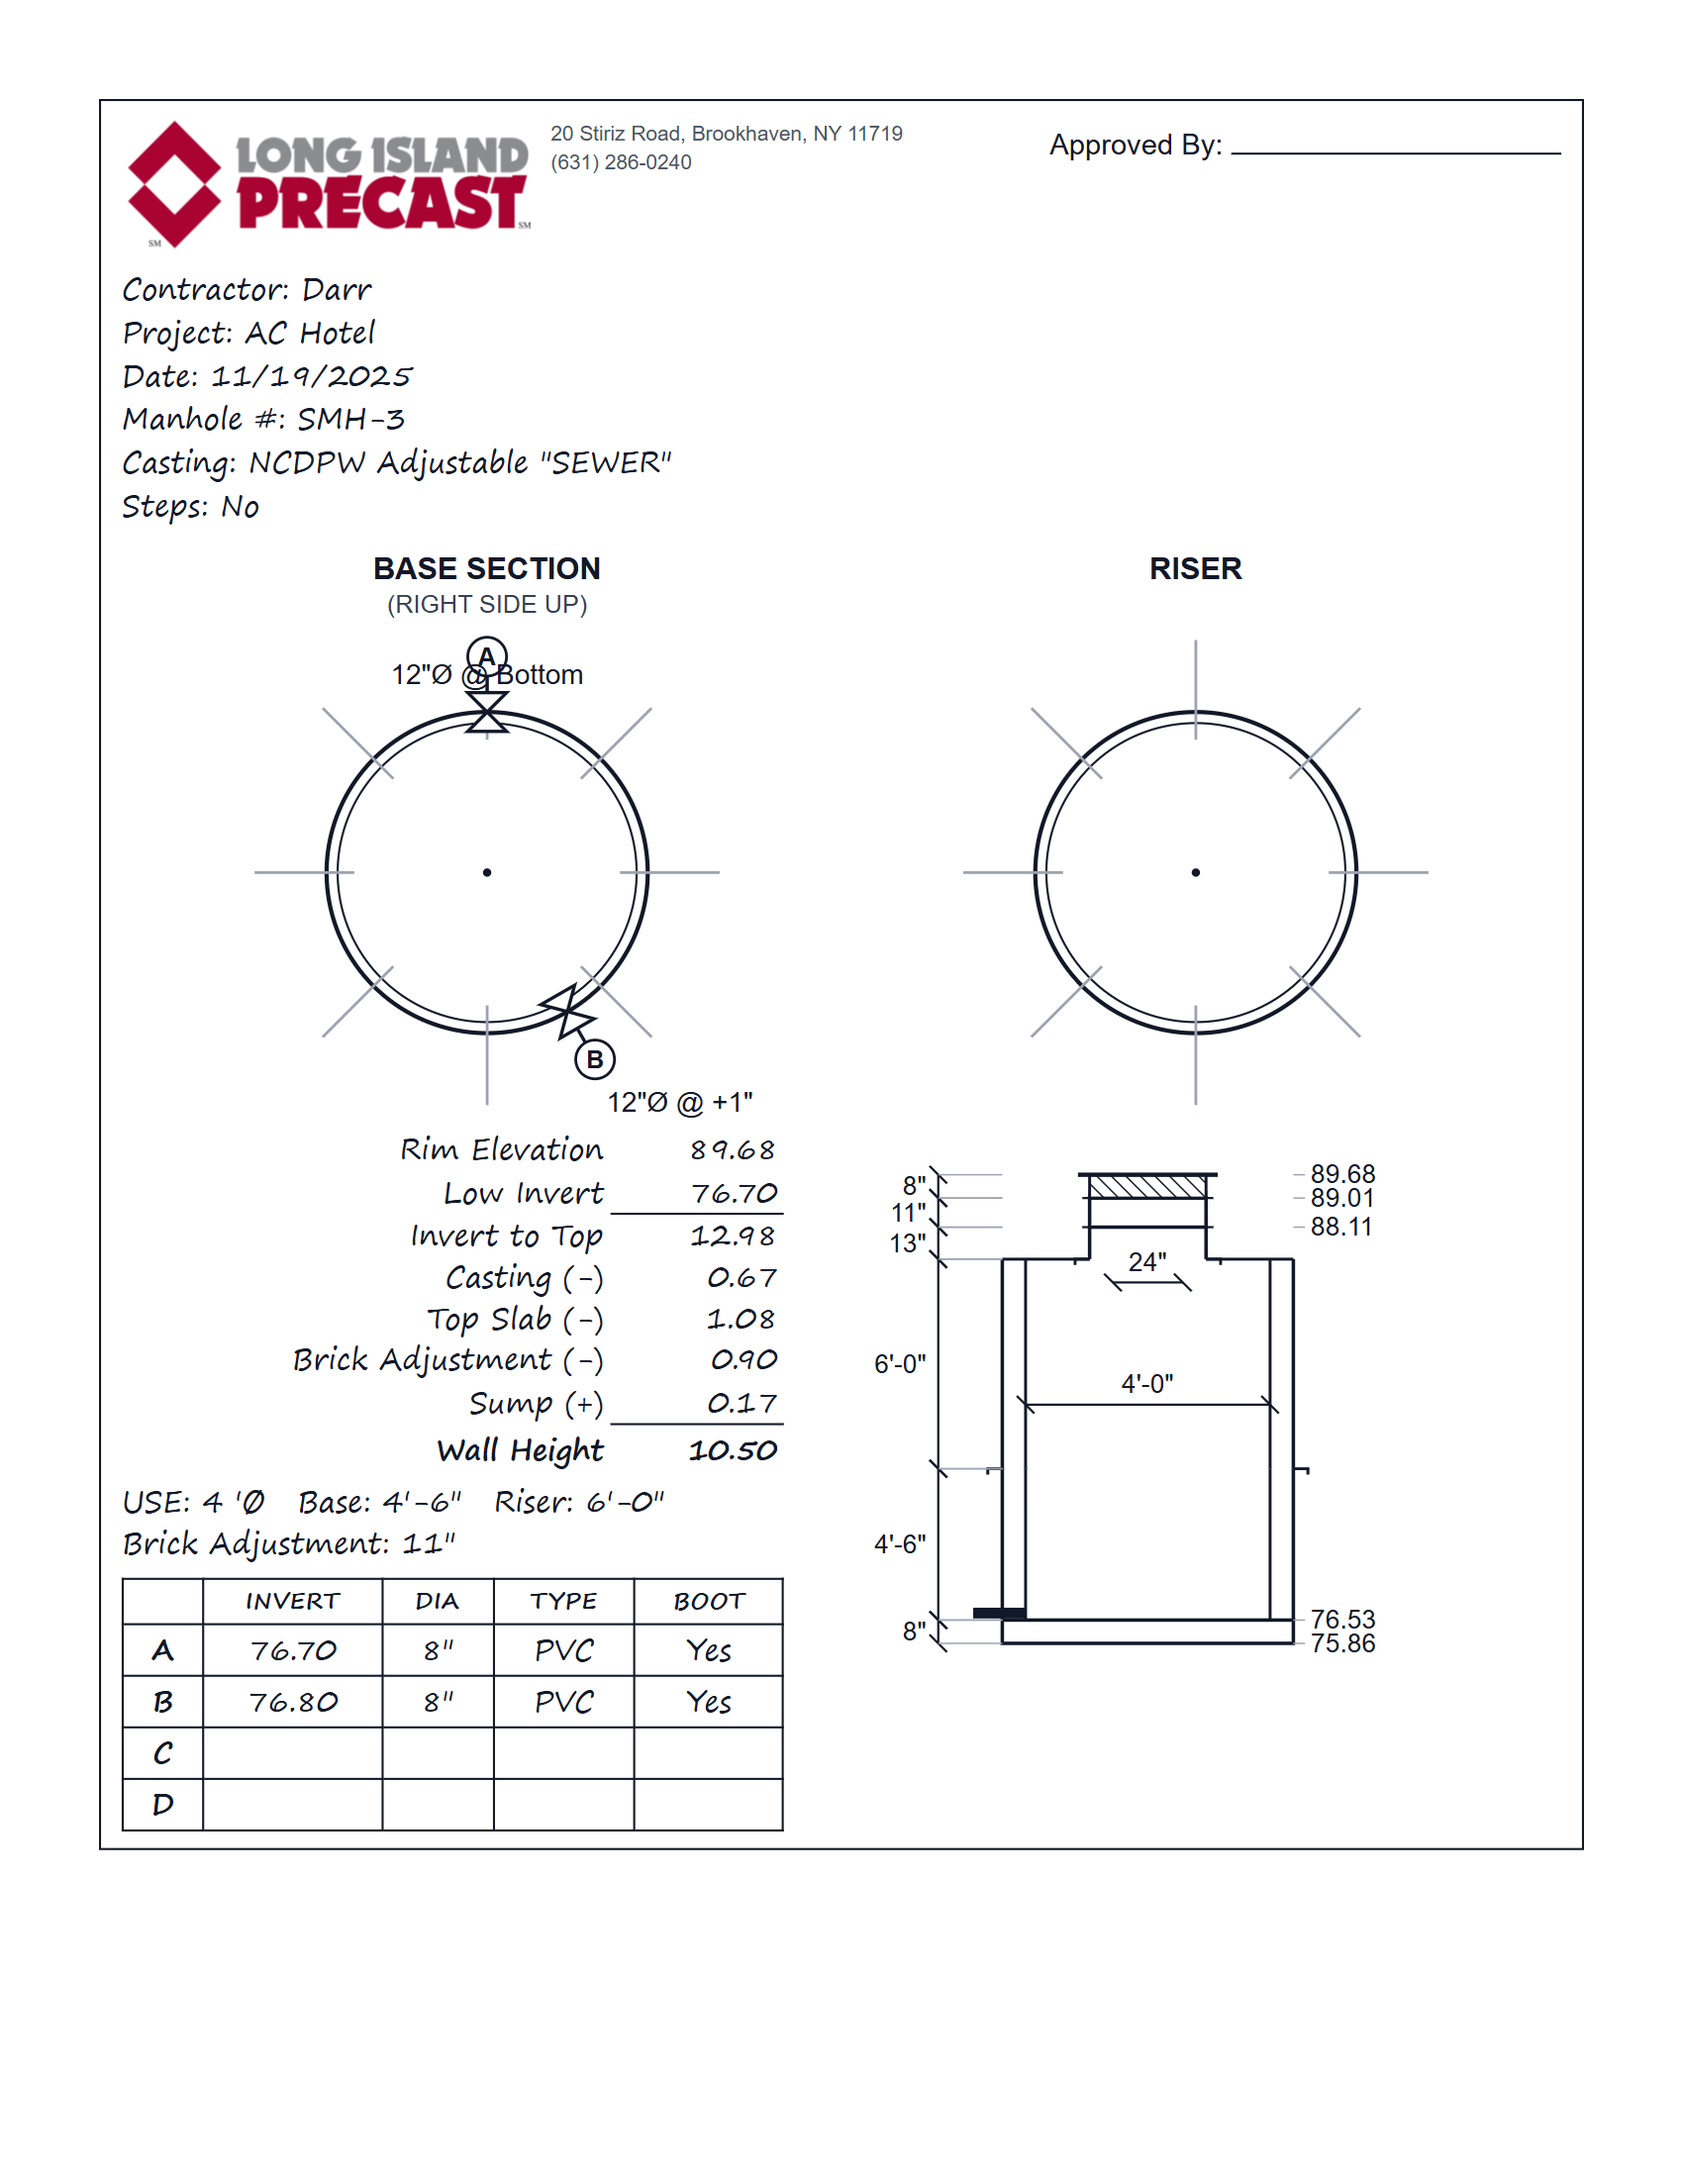
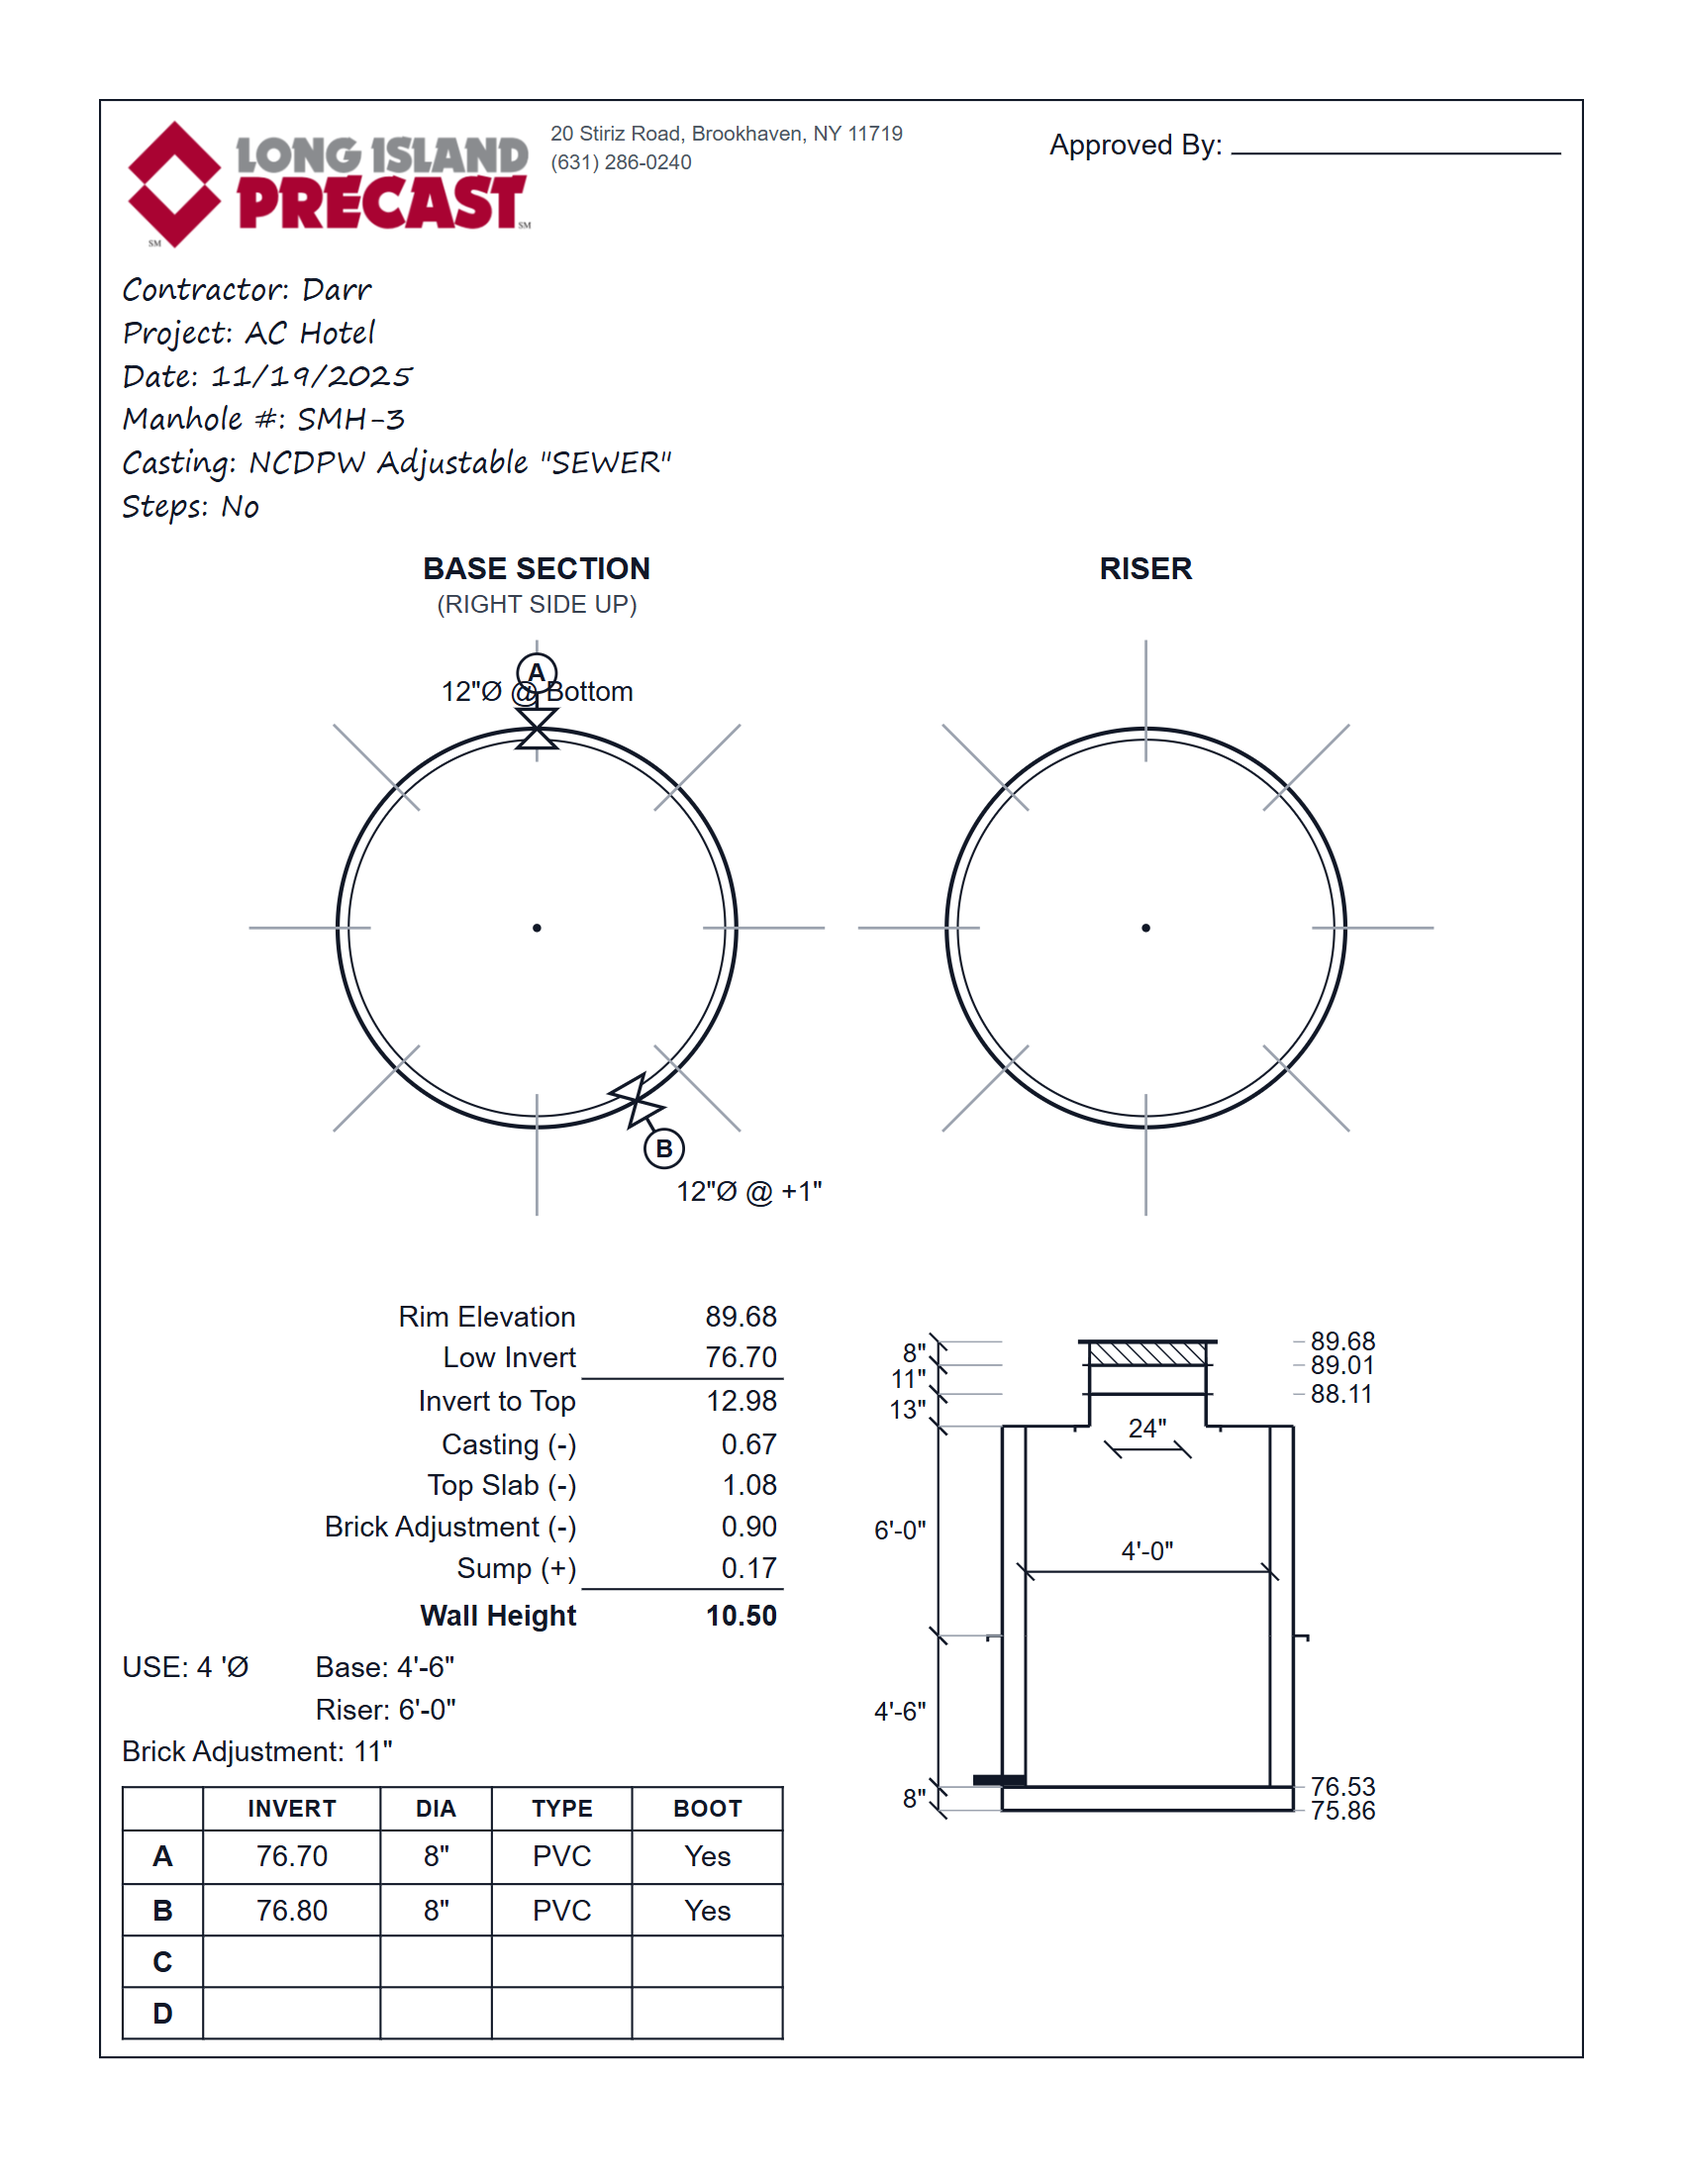
Drill sheet pass 3: fix font mismatch, USE/Riser line layout, undersized circles
Closer crops against docs/drill-sheet-target.png surfaced three more
concrete gaps:

- The cursive "data-font" was wrongly applied to the whole bottom-left
  block. In the reference, only the top field list (Contractor/Project/
  Date/etc.) is cursive — the calc table, USE line, and INVERT/DIA/TYPE/
  BOOT grid all use plain sans-serif, matching the headings. Removed the
  cursive class from .bottom-left.
- "USE: ... Base: ..." / "Riser: ..." is two lines in the reference, with
  Riser indented to align under Base, not one space-separated line. Split
  the markup into two .use-line rows with a fixed-width first column so
  the second line's content aligns under the first's second column.
- The plan-view circles were noticeably smaller than the reference's
  relative to the page width. Increased radius 58->72 (and the viewBox/
  cx offsets and knockout-spoke inset/outset to match) so both circles
  fill more of the available width, matching the reference's proportions.

diff --git a/lib/drill-sheet-pdf-html.ts b/lib/drill-sheet-pdf-html.ts
@@ -51,7 +51,7 @@ function drawCircle(
   result: DrillSheetResult | null,
 ): string {
   const { cx, cy, radius } = layout;
-  const spokes = getKnockoutSpokes(layout, 8, 10, 26)
+  const spokes = getKnockoutSpokes(layout, 8, 12, 32)
     .map(
       (s) =>
         `<line x1="${n(s.x1)}" y1="${n(s.y1)}" x2="${n(s.x2)}" y2="${n(s.y2)}" stroke="#9ca3af" stroke-width="1" />`,
@@ -107,16 +107,16 @@ function drawCircle(
 
 function buildPlanSvg(result: DrillSheetResult): string {
   const width = 520;
-  const height = 210;
-  const cy = 120;
-  const radius = 58;
+  const height = 270;
+  const cy = 140;
+  const radius = 72;
   const base = drawCircle(
-    { cx: 132, cy, radius },
+    { cx: 150, cy, radius },
     "BASE SECTION",
     "(RIGHT SIDE UP)",
     result,
   );
-  const riser = drawCircle({ cx: 388, cy, radius }, "RISER", "", null);
+  const riser = drawCircle({ cx: 370, cy, radius }, "RISER", "", null);
 
   return `
     <svg viewBox="0 0 ${width} ${height}" width="100%" preserveAspectRatio="xMidYMid meet" role="img">
@@ -636,8 +636,10 @@ export async function buildDrillSheetPdfHtml(
       }
       table.calc tr.u td.num { border-bottom: 1px solid #111827; }
       table.calc tr.total td { font-weight: 700; padding-top: 3px; }
-      .use-line { font-weight: 400; margin: 6px 0 2px; font-size: 14px; }
-      .use-line span { margin-right: 10px; }
+      .use-line { font-weight: 400; margin: 2px 0; font-size: 14px; }
+      .use-line:first-of-type { margin-top: 6px; }
+      .use-col1 { display: inline-block; min-width: 90px; }
+      .use-col2 { display: inline-block; }
       .brick-line { margin: 2px 0 8px; font-size: 14px; }
       table.grid { border-collapse: collapse; width: 100%; }
       table.grid th, table.grid td {
@@ -676,12 +678,15 @@ export async function buildDrillSheetPdfHtml(
       <div class="circles">${planSvg}</div>
 
       <div class="bottom">
-        <div class="bottom-left data-font">
+        <div class="bottom-left">
           <table class="calc">${calcRows}</table>
           <div class="use-line">
-            <span>USE: ${escapeHtml(insideDiameterLabel)}</span>
-            <span>Base: ${escapeHtml(baseHeightLabel(result))}</span>
-            <span>Riser: ${escapeHtml(summarizeRisers(result))}</span>
+            <span class="use-col1">USE: ${escapeHtml(insideDiameterLabel)}</span>
+            <span class="use-col2">Base: ${escapeHtml(baseHeightLabel(result))}</span>
+          </div>
+          <div class="use-line">
+            <span class="use-col1"></span>
+            <span class="use-col2">Riser: ${escapeHtml(summarizeRisers(result))}</span>
           </div>
           <div class="brick-line">Brick Adjustment: ${escapeHtml(brickInches)}</div>
           <table class="grid">
